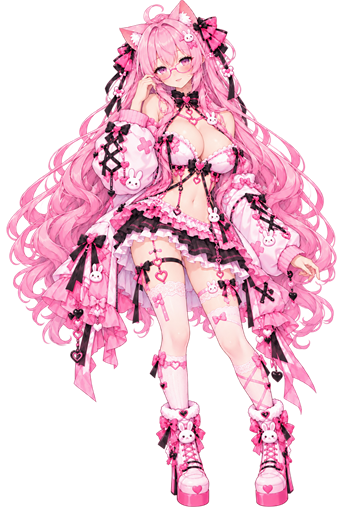
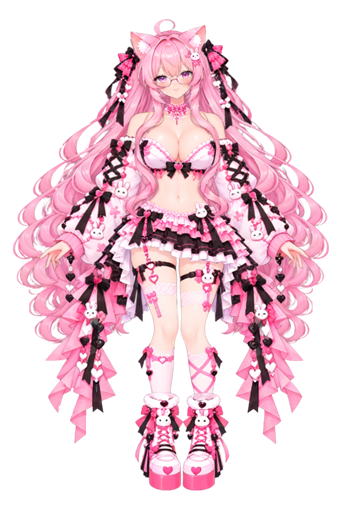
fix: Pink Kawaii and Pink Aristocrat pictures show the real models (v0.11.4)

diff --git a/src-tauri/src/collection.rs b/src-tauri/src/collection.rs
@@ -512,9 +512,9 @@ pub const CATALOG: &[Item] = &[
         price: 5000,
         name: ["Pink Kawaii", "ピンク・カワイイ", "Pink Kawaii"],
         desc: [
-            "Cô gái tai mèo tóc hồng, áo khoác trắng rộng in thỏ, chân váy kẻ hồng và giày thỏ bông, thay nhân vật chính trên màn hình với đủ biểu cảm và động tác.",
-            "うさぎ柄の白いオーバーサイズジャケットにピンクのチェックスカート、うさぎのスニーカーの、ピンク髪の猫耳少女。画面のメインキャラクターになり、表情もモーションもそろっています。",
-            "A pink-haired cat girl in an oversized white bunny jacket, a pink plaid skirt and bunny sneakers becomes your main on-screen character, with full expressions and motions.",
+            "Cô gái tai mèo tóc hồng đeo kính, áo khoác trắng rộng nơ hồng, áo hai dây và chân váy xếp ly đen viền hồng, giày thỏ bông, thay nhân vật chính trên màn hình với đủ biểu cảm và động tác.",
+            "ピンクのリボンの白いオーバーサイズジャケットにキャミソール、ピンク縁取りの黒いプリーツスカート、うさぎのスニーカーの、眼鏡をかけたピンク髪の猫耳少女。画面のメインキャラクターになり、表情もモーションもそろっています。",
+            "A pink-haired cat girl in glasses, with an oversized white jacket with pink bows, a camisole, a black pleated skirt trimmed in pink and bunny sneakers, becomes your main on-screen character, with full expressions and motions.",
         ],
         asset: "pink-kawaii",
     },

diff --git a/CHANGELOG.md b/CHANGELOG.md
@@ -6,6 +6,13 @@ and this project adheres to [Semantic Versioning](https://semver.org/).
 
 ## [Unreleased]
 
+## [0.11.4] - 2026-10-30
+
+### Fixed
+- The Collection pictures of **Pink Kawaii** and **Pink Aristocrat** showed early
+  concept art with a different outfit; they now show the actual models, and Pink
+  Kawaii's description matches her outfit.
+
 ## [0.11.3] - 2026-10-30
 
 ### Added
@@ -905,6 +912,7 @@ and this project adheres to [Semantic Versioning](https://semver.org/).
   providers, and a customizable capture hotkey.
 - Landing page published to GitHub Pages.
 
+[0.11.4]: https://github.com/xShiroeNguyenx/desktop-companion/releases/tag/v0.11.4
 [0.11.3]: https://github.com/xShiroeNguyenx/desktop-companion/releases/tag/v0.11.3
 [0.11.2]: https://github.com/xShiroeNguyenx/desktop-companion/releases/tag/v0.11.2
 [0.11.1]: https://github.com/xShiroeNguyenx/desktop-companion/releases/tag/v0.11.1
